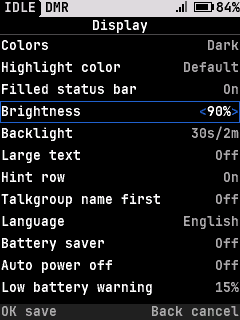
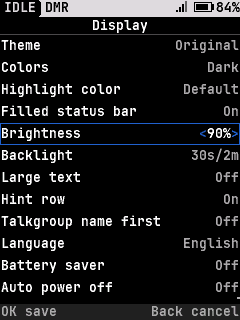
UI: the panels theme fits a color area of 160 x 128, 240 px high for now
The fit rule was a color display 240 px high with 310 px across, the GD-88's
panel only. It becomes a color display with a drawable area of at least
160 x 128 (three list rows under the strip, the title and the soft key bar);
monochrome stays out, having no color for the panes. Until the layout below
240 px high is written, fits() and PANELS_FIT also ask for 240 px high, so the
160 x 128 and 160 x 120 radios keep the reference theme and their maximal
builds don't change.

With this a 220 x 310 display (DM-32) fits, so Settings > Display offers the
Theme row on the 240 x 320 classes: their settings_display and settings_editor
gallery screens show it. uiThemeTest's displays may be 320 rows high now, for
the 240 x 320 panel.

diff --git a/tests/host/uiThemeTest.c b/tests/host/uiThemeTest.c
@@ -797,15 +797,32 @@ static void test_geometry_bounds(void)
 
 // The theme for a display: the one numbered where the build has it and it fits, else the build's default where that
 // fits, else the reference theme, which fits every display. The test's own themes are in no build's list
-static bool picks(int w, int inset_right, int h, uint8_t bpp, uint8_t id, const ui_theme_t *want)
+static bool picks_on(hal_display_t d, uint8_t id, const ui_theme_t *want)
 {
-	hal_display_t d = disp;
-	d.width = (uint16_t)w; d.height = (uint16_t)h; d.inset_right = (uint8_t)inset_right; d.bpp = bpp;
 	d.flush_indexed = d_flush_indexed;
 	bool ok = gfx_init(&d) && ui_theme_pick(id) == want;
 	CHECK(gfx_init(&disp));
 	return ok;
 }
+
+static bool picks(int w, int inset_right, int h, uint8_t bpp, uint8_t id, const ui_theme_t *want)
+{
+	hal_display_t d = disp;
+	d.width = (uint16_t)w; d.height = (uint16_t)h; d.inset_right = (uint8_t)inset_right; d.bpp = bpp;
+	return picks_on(d, id, want);
+}
+
+#if CONFIG_UI_THEME_PANELS
+// A panel behind a bezel that hides lr px left and right and tb px top and bottom
+static hal_display_t inset_panel(int w, int h, int lr, int tb, uint8_t bpp)
+{
+	hal_display_t d = disp;
+	d.width = (uint16_t)w; d.height = (uint16_t)h; d.bpp = bpp;
+	d.inset_left = d.inset_right = (uint8_t)lr;
+	d.inset_top = d.inset_bottom = (uint8_t)tb;
+	return d;
+}
+#endif
 
 #if CONFIG_UI_THEME_PANELS
 // Talkgroup name first's start on this display: the theme a reset radio starts in declares it or not
@@ -829,16 +846,24 @@ static void test_pick(void)
 	CHECK(picks(W, 0, H, 16, 200, ref));			// a number from a later build
 	CHECK(picks(320, 10, 240, 4, UI_THEME_ID_REFERENCE, ref));
 #if CONFIG_UI_THEME_PANELS
-	// 310 drawable pixels across (the panel less its inset), 240 high, in color
+	// A color display with at least 160 x 128 to draw on (the panel less its insets), and 240 high while the layout below
+	// that isn't written
 	const ui_theme_t *panels = &ui_theme_panels;
 	CHECK(picks(320, 10, 240, 4, UI_THEME_ID_DEFAULT, panels));	// the build's default
 	CHECK(picks(320, 10, 240, 4, UI_THEME_ID_PANELS, panels));
 	CHECK(picks(320, 10, 240, 4, 200, panels));
 	CHECK(picks(320, 0, 240, 4, UI_THEME_ID_DEFAULT, panels));
-	CHECK(picks(320, 11, 240, 4, UI_THEME_ID_DEFAULT, ref));	// 309 across
-	CHECK(picks(320, 11, 240, 4, UI_THEME_ID_PANELS, ref));
+	CHECK(picks_on(inset_panel(240, 320, 10, 5, 4), UI_THEME_ID_DEFAULT, panels));	// 220 x 310
+	CHECK(picks_on(inset_panel(240, 320, 10, 5, 4), UI_THEME_ID_PANELS, panels));
+	CHECK(picks(170, 10, 240, 4, UI_THEME_ID_PANELS, panels));	// 160 across
+	CHECK(picks(170, 11, 240, 4, UI_THEME_ID_DEFAULT, ref));	// 159 across
+	CHECK(picks(170, 11, 240, 4, UI_THEME_ID_PANELS, ref));
+	CHECK(picks(160, 0, 128, 4, UI_THEME_ID_PANELS, ref));		// 160 x 128: under 240 high, for now
+	CHECK(picks_on(inset_panel(160, 120, 5, 0, 4), UI_THEME_ID_PANELS, ref));	// 150 x 120
 	CHECK(picks(320, 0, 200, 4, UI_THEME_ID_PANELS, ref));		// not 240 high
 	CHECK(picks(320, 0, 240, 1, UI_THEME_ID_PANELS, ref));		// monochrome
+	CHECK(picks_on(inset_panel(240, 320, 10, 5, 1), UI_THEME_ID_PANELS, ref));
+	CHECK(picks(128, 0, 64, 1, UI_THEME_ID_PANELS, ref));
 	// Its palettes are Day and Night, with nothing past them: a palette out of range is Day
 	CHECK(ui_theme_panels.palette_count == 2 && ui_theme_panels.id == UI_THEME_ID_PANELS);
 	// Its appearance options: Day/Night, the Home layout and the GPS clock, none of the reference theme's; and the
@@ -849,8 +874,9 @@ static void test_pick(void)
 	CHECK(!(ui_theme_reference.options & UI_THEME_OPT_NAME_FIRST));
 	// So a radio starts with it on where its display picks panels for the build's default, off where it picks the
 	// reference theme, panels built in either way
-	CHECK(name_first_on(320, 10, 240, 4) && name_first_on(320, 0, 240, 4));
-	CHECK(!name_first_on(320, 11, 240, 4) && !name_first_on(220, 0, 176, 4) && !name_first_on(320, 0, 240, 1));
+	CHECK(name_first_on(320, 10, 240, 4) && name_first_on(320, 0, 240, 4) && name_first_on(220, 0, 310, 4));
+	CHECK(!name_first_on(159, 0, 240, 4) && !name_first_on(220, 0, 176, 4) && !name_first_on(320, 0, 240, 1) &&
+	      !name_first_on(160, 0, 128, 4));
 	CHECK(ui_theme_use(&ui_theme_panels) && !ui_theme_has(UI_THEME_OPT_PALETTE) &&
 	      ui_theme_has(UI_THEME_OPT_DAY_NIGHT));
 	ui_theme_use(&ui_theme_reference);

diff --git a/core/ui/themes/panels/panels.c b/core/ui/themes/panels/panels.c
@@ -68,10 +68,11 @@ static void panels_colors(ui_colors_t *c, uint8_t palette)
 	panels_gutter = panels_extra_colors[palette].gutter;
 }
 
-// A color display 240 px high with room across for the status strip's marks and the caller line
+// A color display (monochrome has no color for the panes) with a drawable area of at least 160 x 128: three list rows
+// under the strip, the title and the soft key bar. The layout below 240 px high isn't written yet, so 240 px high too
 static bool panels_fits(void)
 {
-	return CONFIG_UI_COLOR && gfx_bpp() > 1 && gfx_width() >= 310 && gfx_height() == 240;
+	return CONFIG_UI_COLOR && gfx_bpp() > 1 && gfx_width() >= 160 && gfx_height() >= 128 && gfx_height() >= 240;
 }
 
 typedef struct { int x, y, scale; } panels_mark_pos_t;

diff --git a/docs/feature-matrix.md b/docs/feature-matrix.md
@@ -79,7 +79,7 @@ is `tools/bringup.py list --radio <id>`.
 | `volume_bar` | not recorded | not recorded | not recorded | not recorded | not recorded | not recorded | not recorded | not recorded | not recorded |
 | `volume_lock` | not recorded | not recorded | not recorded | not recorded | not recorded | not recorded | not recorded | not recorded | not recorded |
 | `key_assign` | not recorded | not recorded | not recorded | not recorded | not recorded | not recorded | not recorded | not recorded | not recorded |
-| `ui_theme_panels` | ✕ | ✕ | ✕ | ✕ | ✕ | ✕ | ✕ | not recorded | ✕ |
+| `ui_theme_panels` | off | ✕ | ✕ | ✕ | ✕ | ✕ | ✕ | not recorded | ✕ |
 | `scan` | not recorded | pass (seed) | not recorded | not recorded | not recorded | not recorded | pass, needs re-run | fail | partial, needs re-run |
 | `dual_watch` | not recorded | pass (seed) | not recorded | not recorded | not recorded | not recorded | partial, needs re-run | partial, needs re-run | ✕ |
 | `beep` | not recorded | not recorded | not recorded | not recorded | not recorded | not recorded | partial, needs re-run | fail | partial, needs re-run |
@@ -269,7 +269,7 @@ clock`; ? = not known yet). No driver reads the clock yet ([radio-features.md](s
 | `LANG_DEFAULT_FR` | ○ | ○ | ○ | ○ | ○ | ○ | ○ | ○ | ○ |
 | `LANG_DEFAULT_ZH` | ○ | ○ | ✕ | ✕ | ✕ | ○ | ○ | ○ | ✕ |
 | `UI_COLOR` | ● | ● | ✕ | ● | ● | ● | ✕ | ● | ✕ |
-| `UI_THEME_PANELS` | ✕ | ✕ | ✕ | ✕ | ✕ | ✕ | ✕ | ● | ✕ |
+| `UI_THEME_PANELS` | ○ | ✕ | ✕ | ✕ | ✕ | ✕ | ✕ | ● | ✕ |
 | `UI_SETTINGS` | ● | ● | ● | ● | ● | ● | ● | ● | ✕ |
 | `SCAN` | ● | ● | ● | ● | ● | ● | ● | ● | ● |
 | `DUAL_WATCH` | ● | ● | ● | ● | ● | ● | ● | ● | ✕ |
@@ -436,7 +436,7 @@ clock`; ? = not known yet). No driver reads the clock yet ([radio-features.md](s
 | Support info on About and the debug link (build source, chips, image hash) | `SUPPORT_INFO` | 3,016 | 2,572 | About 515 bytes of RAM, most of it About's longer text. Read only when About opens or a host asks ([support-info.md](spec/support-info.md)) |
 | Backlight test pages | `BACKLIGHT_TEST` | 1,320* | 1,196* | Off by default; bench work ([backlight-curve.md](testing/backlight-curve.md)) |
 | Color screen settings (theme, highlight color, filled status bar) | `UI_COLOR` | 1,088 | 1,040 | Off on the DM-1801 Pro (monochrome screen) |
-| Panels theme (Commercial and Amateur Home layouts, Day/Night) | `UI_THEME_PANELS` | — | — | Needs a color display 240 px high with 310 px across: the status strip's marks and the caller line. |
+| Panels theme (Commercial and Amateur Home layouts, Day/Night) | `UI_THEME_PANELS` | — | — | Needs a color display with a drawable area of at least 160 x 128 px, and for now 240 px high. |
 | 16x32 font | `FONT_XL` | 6,352* | — | Only useful at 240 px and wider (MD-380 is 160 px). Anti-aliased on the DM-32 (7.4 KB of glyphs) |
 | Anti-aliased fonts | `FONT_AA` | 6,040* | 6,032* | Smooth text on color panels; the DM-32's image grew 9.5 KB with it and `FONT_XL` |
 | Larger text | `FONT_BIG` | — | — | 9x18 lists and labels on 240 px color panels (needs `FONT_AA`); 3,588 B on the DM-32 |

diff --git a/docs/build-config.md b/docs/build-config.md
@@ -200,7 +200,7 @@ below are for an STM32F4 radio.
 | `CONFIG_LANG_DEFAULT_ZH` | n | The radio starts in Chinese, as `CONFIG_LANG_DEFAULT_ES`. Needs `CONFIG_LANG_ZH` |
 | `CONFIG_CJK_GLYPHS` | `CONFIG_LANG_ZH` | The CJK glyph table (`core/ui/cjk_font_data.c`, built by `tools/cjkfont.py`; the face's ~128 KB rodata). Off while `CONFIG_LANG_ZH` stays on keeps the translated Chinese menus but drops the glyphs, for a board too small to show Chinese (it draws boxes for any Chinese). Needs `CONFIG_LANG_ZH` |
 | `CONFIG_UI_COLOR` | y (n on a monochrome radio) | color screen settings: Theme, Highlight color and Filled status bar in Settings > Display (`docs/spec/ui.md` 5, 8). Off: no such rows, the dark theme's colors. About 600 B; off for radios whose only screen is monochrome |
-| `CONFIG_UI_THEME_PANELS` | n | The panels theme: rounded panels, Day/Night palettes, the Commercial and Amateur Home layouts and a GPS clock, on color displays 240 px high with at least 310 px of drawable width (unsupported on other panels). Needs `CONFIG_UI_COLOR`. The GPS clock needs a board GPS |
+| `CONFIG_UI_THEME_PANELS` | n | The panels theme: rounded panels, Day/Night palettes, the Commercial and Amateur Home layouts and a GPS clock, on color displays with a drawable area of at least 160 x 128 px, and for now 240 px high (unsupported on other panels). Needs `CONFIG_UI_COLOR`. The GPS clock needs a board GPS |
 | `CONFIG_AUDIO_PROBE` | n | diagnostics: debug link command 0x10 reads / writes the audio chip's registers and measures the PCM stream, for the USB audio bench tests (`docs/spec/debuglink.md` 3.14); needs DEBUGLINK and DMR; about 2 KB RAM and 2.2 KB flash. Never for a release; CI builds it in one board's `audio-probe` configuration (with `LTO=1`: the default image has no room for it without), not in maximal. A bench image without LTO: add `CONFIG_SNMP=n` |
 | `CONFIG_UI_SETTINGS` | y | the Settings menu on the radio; off: settings keep their stored values and are set with qdmr (`docs/spec/ui.md` 5) |
 
